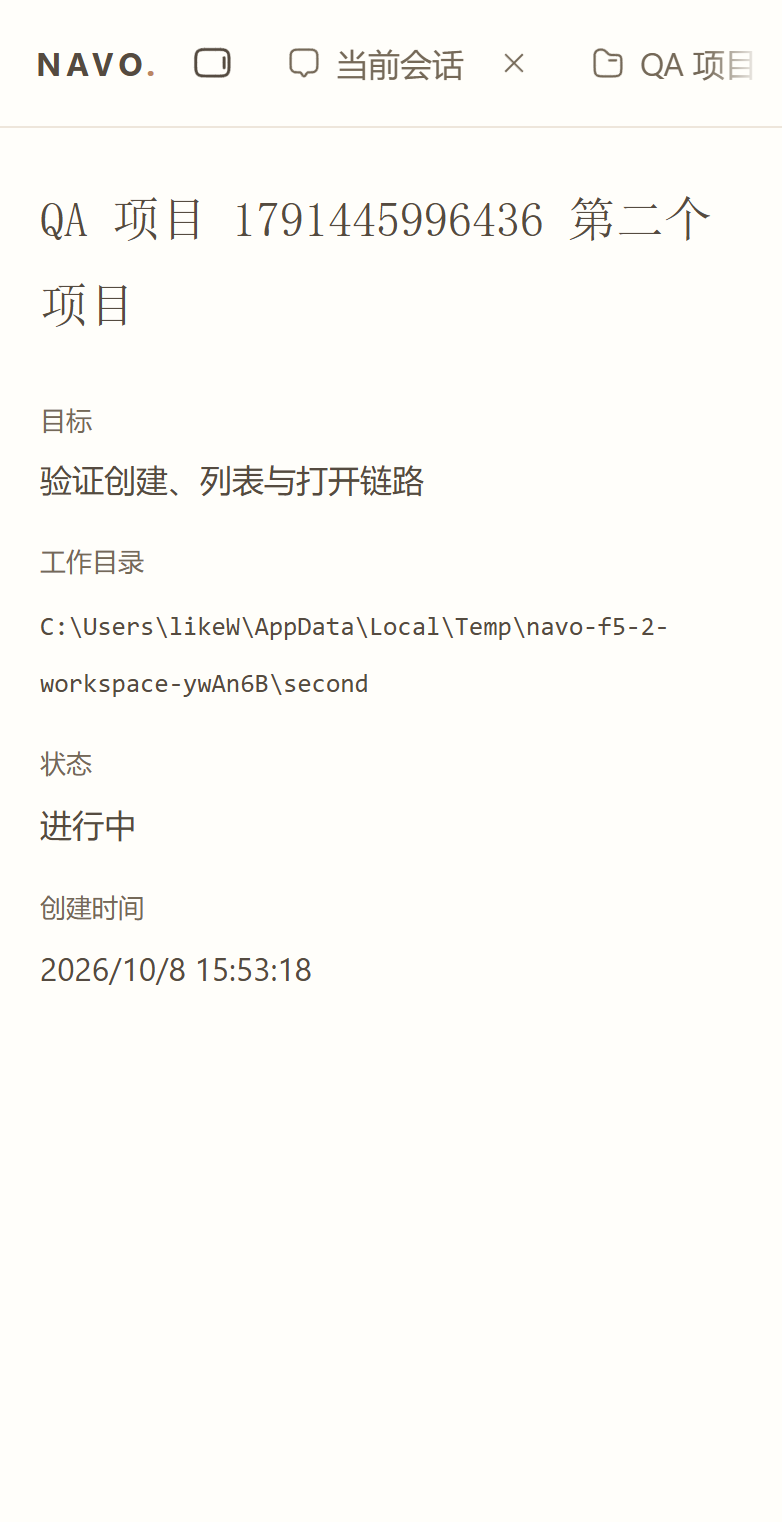
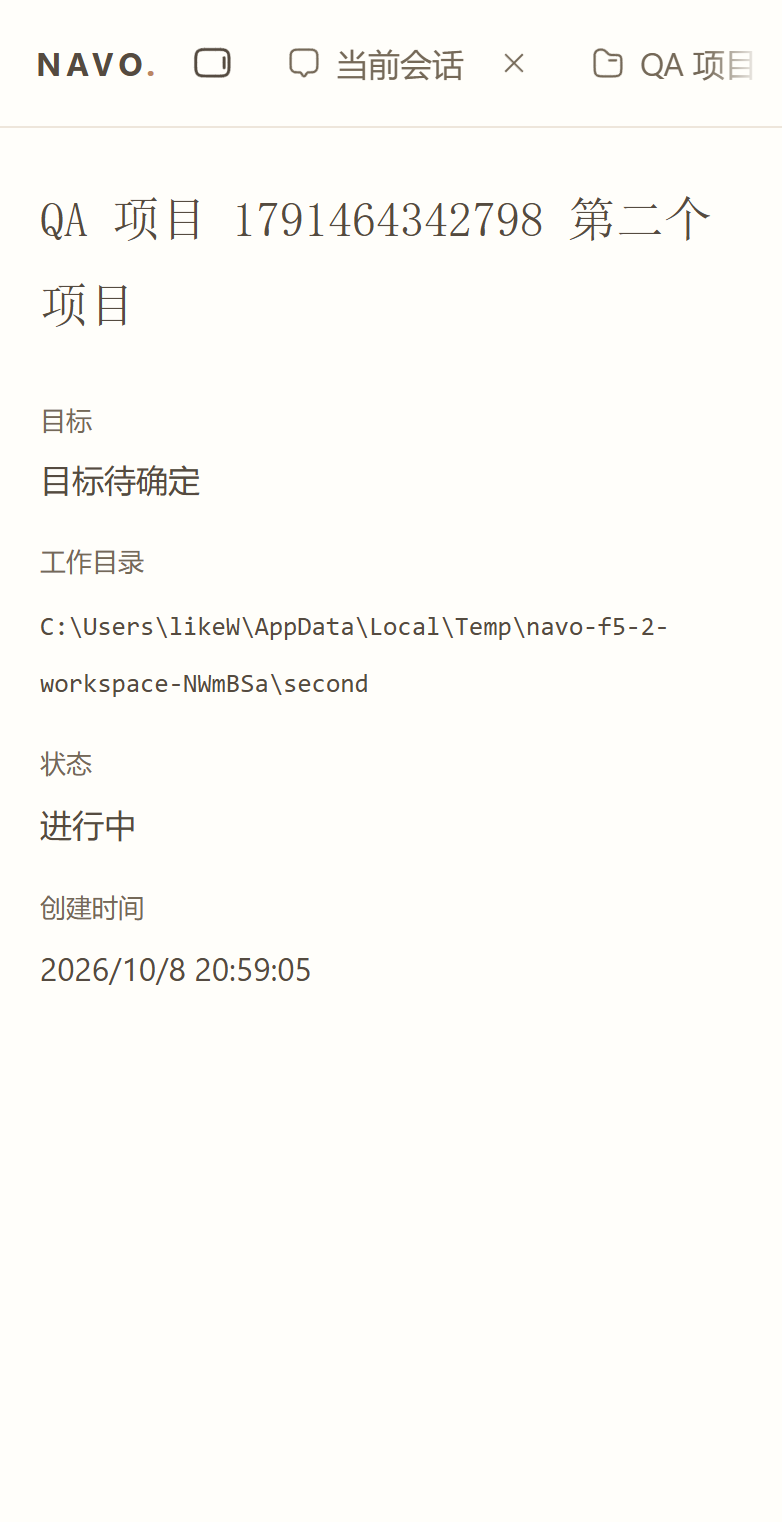
feat: F5.2 optional project goal
Let the create form submit goal: null when left empty, show a pending goal
in project detail, and extend tests and project QA for the no-goal path.

diff --git a/frontend/scripts/qa/project.ts b/frontend/scripts/qa/project.ts
@@ -125,12 +125,12 @@ async function main(): Promise<void> {
     await click(window, `button[class*="create"]`);
     await waitFor(window, `document.querySelector('dialog[open]') !== null`);
     await fill(window, `dialog input[name="name"]`, secondName);
-    await fill(window, `dialog textarea[name="goal"]`, goal);
     await click(window, `dialog button`, "选择目录");
     await waitFor(window, `document.querySelector('dialog code')?.textContent === ${JSON.stringify(secondRoot)}`);
     await click(window, `dialog button[type="submit"]`);
     const secondPanel = `section[data-active="true"] article[aria-label=${JSON.stringify(`项目 ${secondName}`)}]`;
-    await waitFor(window, `document.querySelector(${JSON.stringify(secondPanel)}) !== null`);
+    await waitFor(window, `document.querySelector(${JSON.stringify(secondPanel)})?.textContent.includes('目标待确定')`);
+    const pendingGoalDetail = await text(window, secondPanel);
     await waitFor(window, `document.querySelector('aside')?.getAttribute('data-open') === 'false'`);
     await click(window, `nav[aria-label="已打开的标签页"] button[aria-controls]`, "当前会话");
     await delay(300);
@@ -184,7 +184,7 @@ async function main(): Promise<void> {
     );
     await writeFile(join(outputDirectory, `f5-2-${mode}-tabs-desktop.png`), (await window.webContents.capturePage()).toPNG());
 
-    const result = { mode, emptyNotice, name, detail, conflict, overflow, tabStrip, fadeAtEnd, fadeAtStart, fadeDesktop };
+    const result = { mode, emptyNotice, name, detail, conflict, overflow, tabStrip, fadeAtEnd, fadeAtStart, fadeDesktop, pendingGoalDetail };
     await writeFile(join(outputDirectory, `f5-2-${mode}-results.json`), JSON.stringify(result, null, 2));
     process.stdout.write(`${JSON.stringify(result, null, 2)}\n`);
   } finally {

diff --git a/frontend/electron/ipc/project/tests/handler.spec.ts b/frontend/electron/ipc/project/tests/handler.spec.ts
@@ -25,6 +25,15 @@ describe("createProjectHandlers", () => {
     expect(host.calls).toEqual([["project.create.v1", createInput]]);
   });
 
+  it("passes a null goal through to the Host", async () => {
+    const pending = { ...summary, goal: null };
+    const host = new FakeHost(async function* () { yield pending; });
+
+    expect(await createProjectHandlers(host).create({ ...createInput, goal: null }))
+      .toEqual({ type: "ok", value: pending });
+    expect(host.calls).toEqual([["project.create.v1", { ...createInput, goal: null }]]);
+  });
+
   it("rejects invalid input before calling the Host", async () => {
     const host = new FakeHost(async function* () { yield summary; });
     const handlers = createProjectHandlers(host);
@@ -32,6 +41,8 @@ describe("createProjectHandlers", () => {
     expect(await handlers.create({ ...createInput, goal: "   " })).toMatchObject({
       type: "failed", failure: { code: "invalid-input" },
     });
+    expect(await handlers.create({ name: createInput.name, workspaceRoot: createInput.workspaceRoot }))
+      .toMatchObject({ type: "failed", failure: { code: "invalid-input" } });
     expect(await handlers.get({ projectId: "" })).toMatchObject({ type: "failed", failure: { code: "invalid-input" } });
     expect(await handlers.list({ extra: true })).toMatchObject({ type: "failed", failure: { code: "invalid-input" } });
     expect(host.calls).toEqual([]);

diff --git a/frontend/src/workspace/project/draft.ts b/frontend/src/workspace/project/draft.ts
@@ -21,12 +21,12 @@ export function checkDraft(draft: ProjectDraft): DraftCheck {
   const name = draft.name.trim();
   if (!name) return problem("请填写项目名称。");
   if (name.length > PROJECT_NAME_MAX_CHARS) return problem(`项目名称不能超过 ${PROJECT_NAME_MAX_CHARS} 个字符。`);
-  if (!draft.goal.trim()) return problem("请填写项目目标。");
-  if (draft.goal.length > PROJECT_GOAL_MAX_CHARS) return problem(`项目目标不能超过 ${PROJECT_GOAL_MAX_CHARS} 个字符。`);
+  const goal = draft.goal.trim() ? draft.goal : null;
+  if (goal !== null && goal.length > PROJECT_GOAL_MAX_CHARS) return problem(`项目目标不能超过 ${PROJECT_GOAL_MAX_CHARS} 个字符。`);
   const workspaceRoot = draft.workspaceRoot;
   if (workspaceRoot === null || !workspaceRoot.trim()) return problem("请选择工作目录。");
   if (workspaceRoot.length > PROJECT_WORKSPACE_ROOT_MAX_CHARS) return problem("工作目录路径过长，请选择其他目录。");
-  return { type: "ready", input: { name, goal: draft.goal, workspaceRoot } };
+  return { type: "ready", input: { name, goal, workspaceRoot } };
 }
 
 function problem(message: string): DraftCheck {

diff --git a/frontend/src/workspace/project/tests/View.spec.tsx b/frontend/src/workspace/project/tests/View.spec.tsx
@@ -29,6 +29,15 @@ describe("ProjectDetailView", () => {
     expect(markup).toContain("dateTime=\"2026-10-08T00:00:00.000Z\"");
   });
 
+  it("shows a pending goal when the goal is not confirmed", () => {
+    const markup = renderToStaticMarkup(<ProjectDetailView onRetry={vi.fn()} state={{
+      status: "ready",
+      detail: { project: { ...project, goal: null }, main: { sessionId: "s-1", turnActive: false }, roadmap: null },
+    }} />);
+
+    expect(markup).toContain("目标待确定");
+  });
+
   it("shows a readable failure with retry", () => {
     const markup = renderToStaticMarkup(<ProjectDetailView onRetry={vi.fn()} state={{
       status: "failed", failure: { code: "project-not-found", message: "missing" },
@@ -58,6 +67,8 @@ describe("ProjectCreate", () => {
     expect(markup).toContain("新建项目");
     expect(markup).toContain("maxLength=\"80\"");
     expect(markup).toContain("maxLength=\"8000\"");
+    expect(markup).toContain("项目目标（可选）");
+    expect(markup).toContain("可留空，之后在对话中与 Main 确认");
     expect(markup).toContain("尚未选择");
     expect(markup).toContain("创建项目");
   });

diff --git a/frontend/src/workspace/project/tests/model.spec.ts b/frontend/src/workspace/project/tests/model.spec.ts
@@ -17,9 +17,12 @@ const project: ProjectSummaryV1 = {
 };
 
 describe("checkDraft", () => {
-  it("requires a name, a goal and a chosen workspace", () => {
+  it("requires a name and a chosen workspace but lets the goal stay empty", () => {
     expect(checkDraft({ name: " ", goal: "g", workspaceRoot: "D:\\w" })).toEqual({ type: "problem", message: "请填写项目名称。" });
-    expect(checkDraft({ name: "n", goal: "  ", workspaceRoot: "D:\\w" })).toEqual({ type: "problem", message: "请填写项目目标。" });
+    expect(checkDraft({ name: "n", goal: "  ", workspaceRoot: "D:\\w" })).toEqual({
+      type: "ready", input: { name: "n", goal: null, workspaceRoot: "D:\\w" },
+    });
+    expect(checkDraft({ name: "n", goal: "", workspaceRoot: "D:\\w" })).toMatchObject({ type: "ready", input: { goal: null } });
     expect(checkDraft({ name: "n", goal: "g", workspaceRoot: null })).toEqual({ type: "problem", message: "请选择工作目录。" });
   });
 

diff --git a/frontend/src/workspace/project/Create.tsx b/frontend/src/workspace/project/Create.tsx
@@ -79,9 +79,9 @@ export function ProjectCreate({ api, create, onCreated, onClose }: {
           autoComplete="off" onChange={event => update({ name: event.target.value })} />
       </label>
       <label className={styles.field}>
-        <span>项目目标</span>
+        <span>项目目标（可选）</span>
         <textarea name="goal" value={draft.goal} rows={5} maxLength={PROJECT_GOAL_MAX_CHARS} disabled={submitting}
-          placeholder="描述这个项目希望达成什么" onChange={event => update({ goal: event.target.value })} />
+          placeholder="可留空，之后在对话中与 Main 确认" onChange={event => update({ goal: event.target.value })} />
       </label>
       <div className={styles.field}>
         <span>工作目录</span>

diff --git a/frontend/shared/project/tests/validation.spec.ts b/frontend/shared/project/tests/validation.spec.ts
@@ -17,6 +17,10 @@ describe("parseDesktopProjectResult", () => {
   it("parses success values with the contract parser", () => {
     expect(parseDesktopProjectResult({ type: "ok", value: summary }, parseProjectSummary))
       .toEqual({ type: "ok", value: summary });
+    expect(parseDesktopProjectResult({ type: "ok", value: { ...summary, goal: null } }, parseProjectSummary))
+      .toEqual({ type: "ok", value: { ...summary, goal: null } });
+    expect(() => parseDesktopProjectResult({ type: "ok", value: { ...summary, goal: " " } }, parseProjectSummary))
+      .toThrow();
     expect(() => parseDesktopProjectResult({ type: "ok", value: { ...summary, extra: 1 } }, parseProjectSummary))
       .toThrow();
   });

diff --git a/frontend/src/workspace/project/failure.ts b/frontend/src/workspace/project/failure.ts
@@ -3,7 +3,7 @@ import type { DesktopProjectFailure } from "../../../shared/project.js";
 export function projectFailureMessage(failure: DesktopProjectFailure): string {
   switch (failure.code) {
     case "invalid-request":
-      return "名称、目标或工作目录不符合要求，请检查后重试。";
+      return "名称、目标或工作目录不符合要求（名称必填，目标可留空），请检查后重试。";
     case "workspace-conflict":
       return "该目录已被其他项目绑定，请选择其他目录。";
     case "workspace-invalid":

diff --git a/frontend/src/workspace/project/Detail.tsx b/frontend/src/workspace/project/Detail.tsx
@@ -56,7 +56,7 @@ export function ProjectDetailView({ state, onRetry }: {
     <h2>{project.name}</h2>
     <dl className={styles.facts}>
       <dt>目标</dt>
-      <dd className={styles.goal}>{project.goal}</dd>
+      <dd className={styles.goal}>{project.goal ?? "目标待确定"}</dd>
       <dt>工作目录</dt>
       <dd><code>{project.workspaceRoot ?? "绑定中"}</code></dd>
       <dt>状态</dt>
